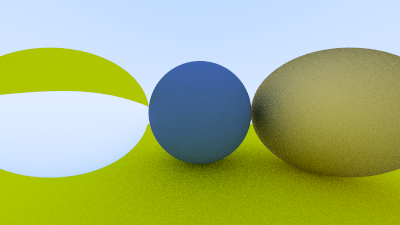
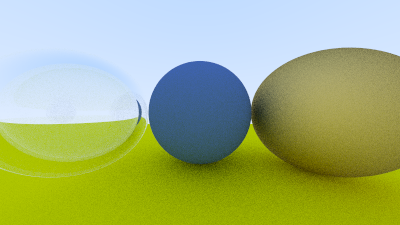
Add Schlick reflectance

Changed region(s): [[0.0, 0.1867, 0.39, 0.8089]]

diff --git a/src/material.h b/src/material.h
@@ -70,8 +70,18 @@ public:
         const Hit &hit
     ) const override {
         float refractive_index_face = hit.is_front ? (1.0f / refractive_index_) : refractive_index_;
-        glm::vec3 refracted = refract(r.direction(), hit.normal, refractive_index_face);
-        return std::make_tuple(true, glm::vec3(1.0, 1.0, 1.0), Ray(hit.point, refracted));
+
+        float cos_theta = glm::dot(-r.direction(), hit.normal);
+        float sin_theta = std::sqrt(1.0f - cos_theta * cos_theta);
+
+        glm::vec3 direction;
+        if (refractive_index_face * sin_theta > 1.0f || schlick_reflectance(cos_theta, refractive_index_face) > random_float()) {
+            direction = reflect(r.direction(), hit.normal);
+        } else {
+            direction = refract(r.direction(), hit.normal, refractive_index_face);
+        }
+
+        return std::make_tuple(true, glm::vec3(1.0, 1.0, 1.0), Ray(hit.point, direction));
     }
 private:
     inline glm::vec3 refract(const glm::vec3 &direction, const glm::vec3 &normal, float refractive_index_face) const {
@@ -79,6 +89,16 @@ private:
         float r_vertical_sq = r_vertical.x * r_vertical.x + r_vertical.y * r_vertical.y + r_vertical.z * r_vertical.z;
         glm::vec3 r_horizontal = -std::sqrt(std::fabs(1.0f - r_vertical_sq)) * normal;
         return r_vertical + r_horizontal;
+    }
+
+    inline glm::vec3 reflect(const glm::vec3 &direction, const glm::vec3 &normal) const {
+        return direction - 2 * glm::dot(direction, normal) * normal;
+    }
+
+    inline float schlick_reflectance(float cos_theta, float refractive_index) const {
+        // https://en.wikipedia.org/wiki/Schlick%27s_approximation
+        float r0 = std::pow((1.0f - refractive_index) / (1.0f + refractive_index), 2.0f);
+        return r0 + (1.0f-r0) * std::pow((1-cos_theta) , 5.0f);
     }
 };
 

diff --git a/src/main.cpp b/src/main.cpp
@@ -33,6 +33,7 @@ int main(int argc, char *argv[]) {
     std::shared_ptr<Material> material_ground = std::make_shared<Lambertian>(glm::vec3(0.8, 0.8, 0.0));
     std::shared_ptr<Material> material_center = std::make_shared<Lambertian>(glm::vec3(0.1, 0.2, 0.5));
     std::shared_ptr<Material> material_left   = std::make_shared<Dielectric>(1.50);
+    std::shared_ptr<Material> material_bubble   = std::make_shared<Dielectric>(1.00 / 1.50);
     std::shared_ptr<Material> material_right  = std::make_shared<Metal>(glm::vec3(0.8, 0.6, 0.2), 1.0f);
 
     // objects
@@ -40,6 +41,7 @@ int main(int argc, char *argv[]) {
     world.add(std::make_shared<Sphere>(Sphere(glm::vec3( 0.0, -100.5, -1.0), 100.0, material_ground)));
     world.add(std::make_shared<Sphere>(Sphere(glm::vec3( 0.0,    0.0, -1.2),   0.5, material_center)));
     world.add(std::make_shared<Sphere>(Sphere(glm::vec3(-1.0,    0.0, -1.0),   0.5, material_left)));
+    world.add(std::make_shared<Sphere>(Sphere(glm::vec3(-1.0,    0.0, -1.0),   0.4, material_bubble)));
     world.add(std::make_shared<Sphere>(Sphere(glm::vec3( 1.0,    0.0, -1.0),   0.5, material_right)));
 
     // render
